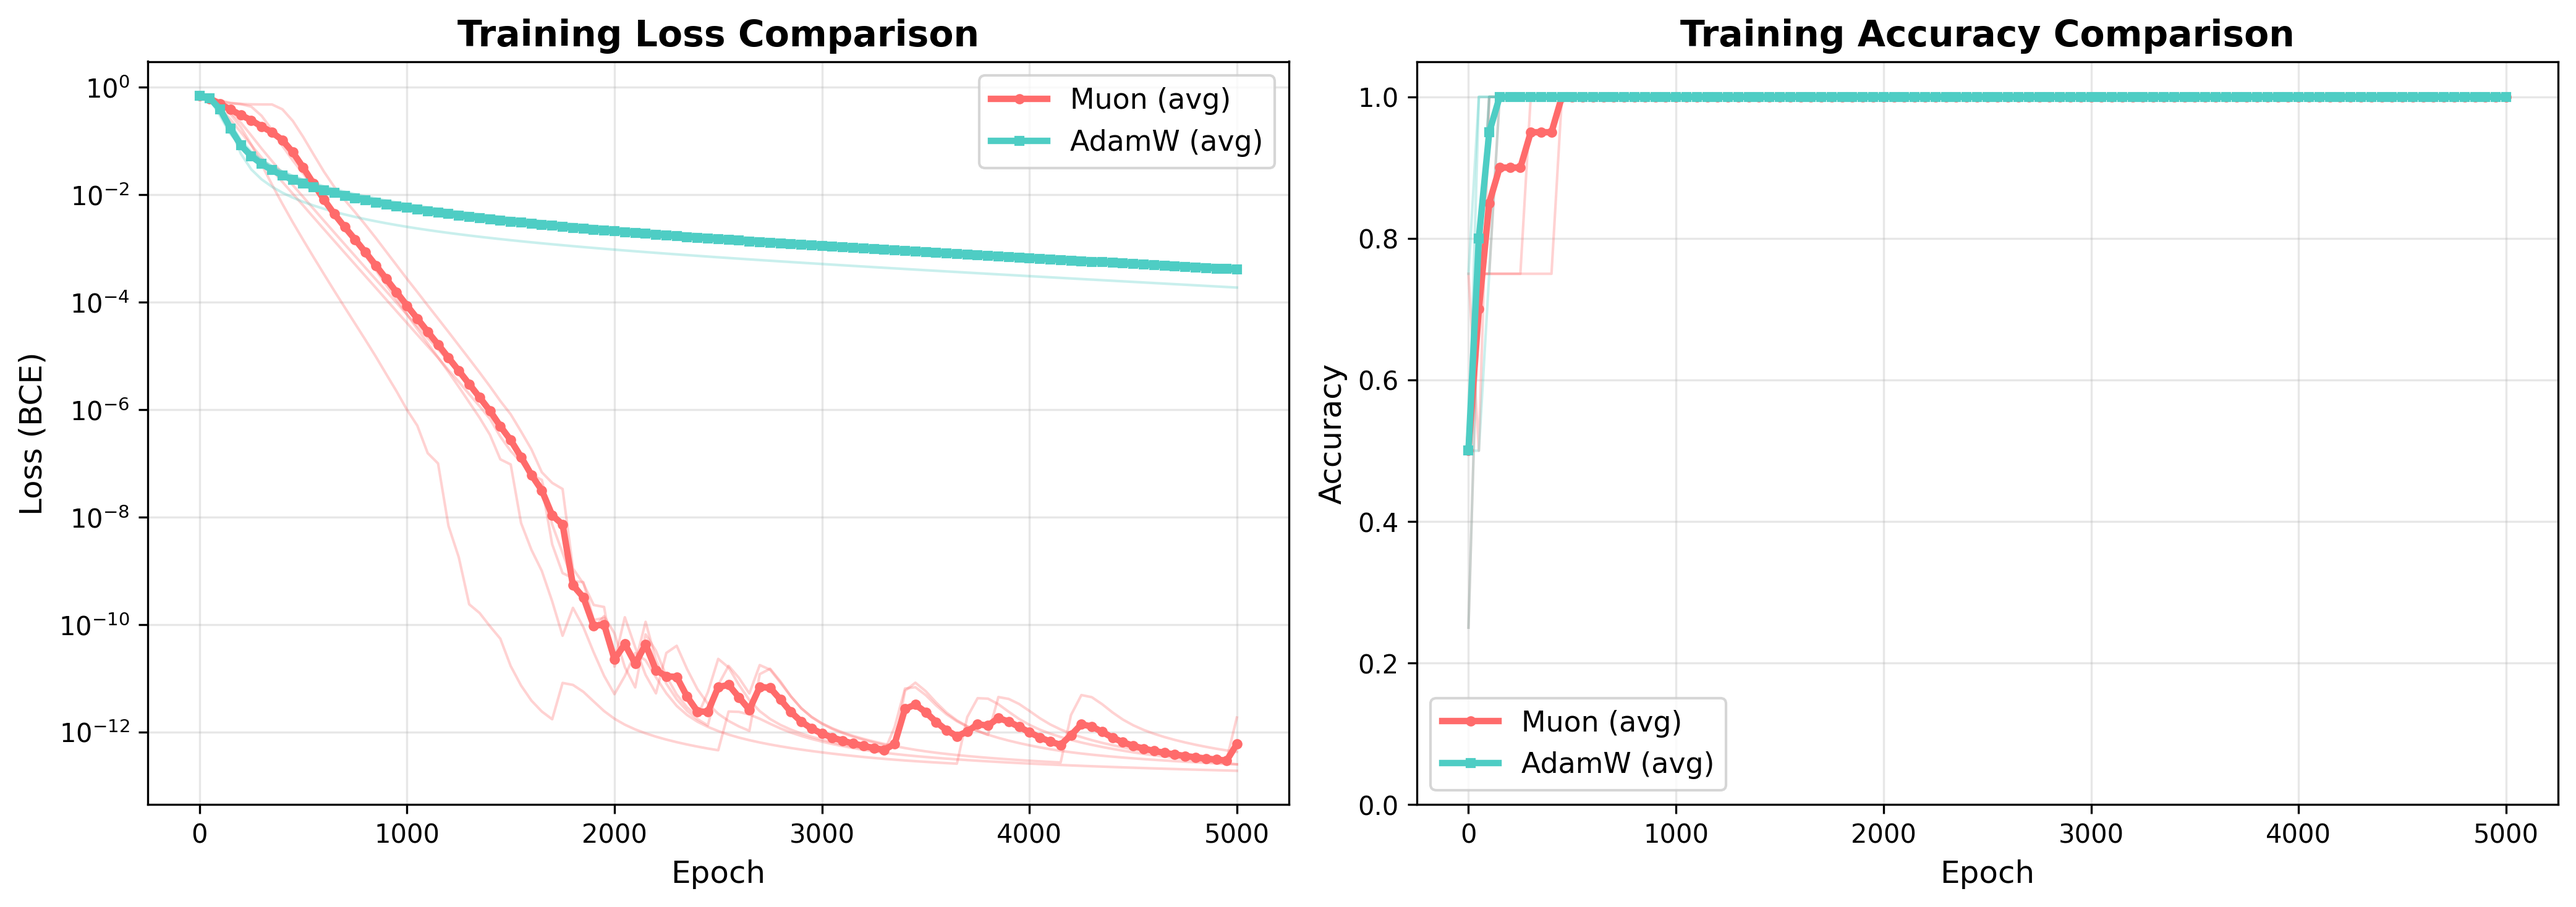
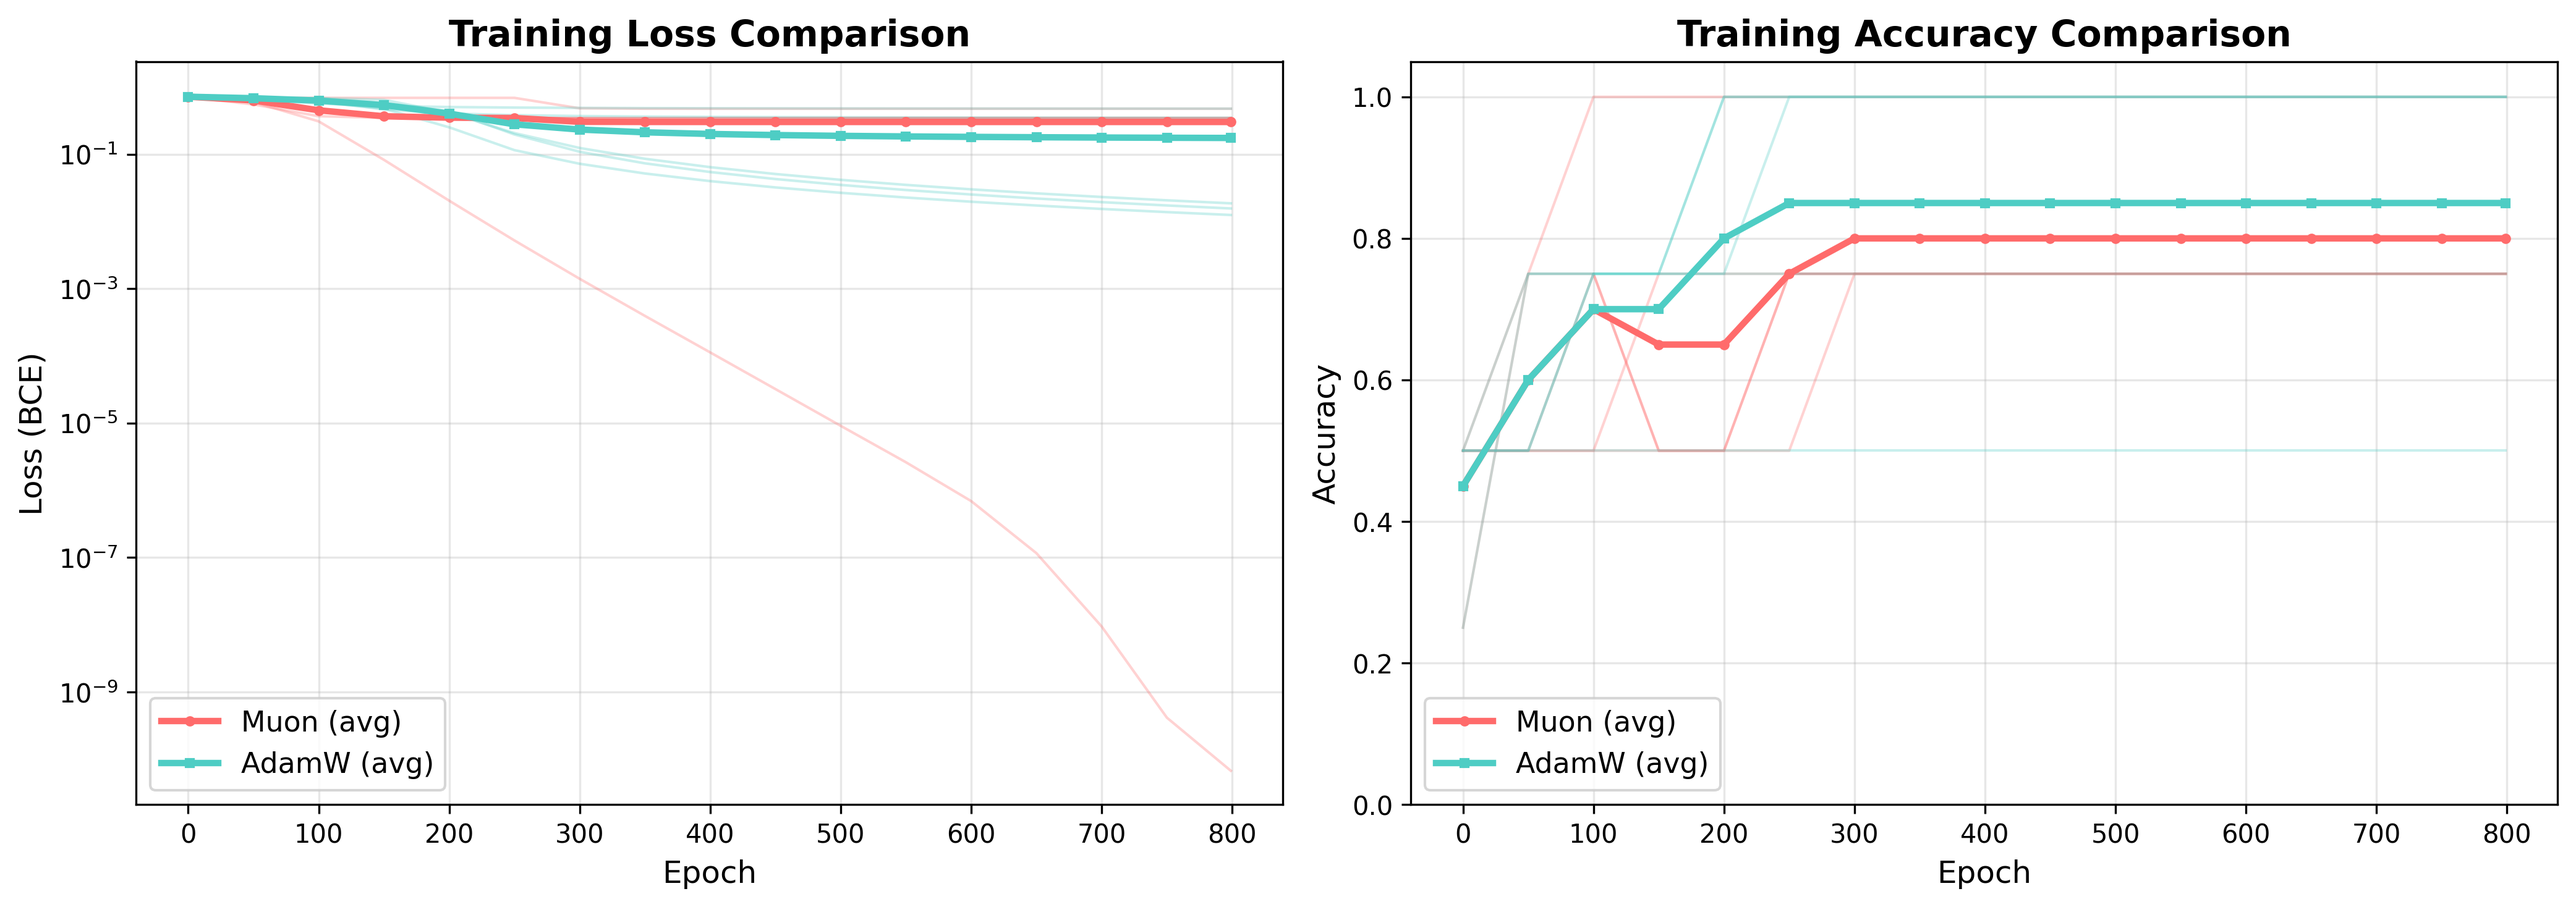
update

diff --git a/xor_experiment.py b/xor_experiment.py
@@ -20,7 +20,7 @@ XOR_TARGETS = torch.tensor([[0.], [1.], [1.], [0.]], dtype=torch.float32)
 
 class SimpleNet(nn.Module):
     """Simple feedforward network for XOR problem"""
-    def __init__(self, hidden_size=4):
+    def __init__(self, hidden_size=2):
         super().__init__()
         self.fc1 = nn.Linear(2, hidden_size)
         self.fc2 = nn.Linear(hidden_size, 1)
@@ -31,7 +31,7 @@ class SimpleNet(nn.Module):
         return x
 
 
-def train_model(optimizer_name, lr, num_epochs=5000, hidden_size=4, seed=42):
+def train_model(optimizer_name, lr, num_epochs=1000, hidden_size=2, seed=42):
     """
     Train a model with specified optimizer
     
@@ -134,7 +134,7 @@ def run_experiment(num_trials=5, num_epochs=5000):
     print()
     
     # Different learning rates to try
-    muon_lr = 0.02  # Default Muon learning rate
+    muon_lr = 0.05  # Default Muon learning rate
     adamw_lr = 0.01  # Typical AdamW learning rate
     
     results = {
@@ -230,6 +230,277 @@ def plot_results(results, save_path='xor_comparison.png'):
     plt.show()
 
 
+def plot_loss_surface(model=None, grid_size=50, extent=1.5, save_path='loss_surface.png'):
+    """
+    Plot the loss surface around a model's parameters
+    
+    Creates a 2D slice through parameter space using two random directions.
+    Based on the approach from "Visualizing the Loss Landscape of Neural Nets" (Li et al.)
+    
+    Args:
+        model: Trained model to center the visualization on (if None, uses random init)
+        grid_size: Number of points in each direction
+        extent: How far to explore in each direction (in parameter space)
+        save_path: Path to save the plot
+    """
+    print("\n" + "="*70)
+    print("PLOTTING LOSS SURFACE")
+    print("="*70)
+    
+    # Use provided model or create a new one
+    if model is None:
+        model = SimpleNet(hidden_size=2)
+    
+    # Get all parameters as a flat vector (center point)
+    center_params = []
+    for p in model.parameters():
+        center_params.append(p.data.clone().flatten())
+    center_params = torch.cat(center_params)
+    
+    # Create two random direction vectors (normalized)
+    torch.manual_seed(42)
+    direction1 = torch.randn_like(center_params)
+    direction1 = direction1 / torch.norm(direction1)
+    
+    direction2 = torch.randn_like(center_params)
+    # Make direction2 orthogonal to direction1
+    direction2 = direction2 - (direction2 @ direction1) * direction1
+    direction2 = direction2 / torch.norm(direction2)
+    
+    # Create grid
+    alphas = np.linspace(-extent, extent, grid_size)
+    betas = np.linspace(-extent, extent, grid_size)
+    
+    # Storage for losses
+    losses = np.zeros((grid_size, grid_size))
+    
+    print(f"Computing loss surface ({grid_size}x{grid_size} = {grid_size**2} points)...")
+    
+    # Compute loss at each grid point
+    def set_params(alpha, beta):
+        """Set model parameters to center + alpha*dir1 + beta*dir2"""
+        new_params = center_params + alpha * direction1 + beta * direction2
+        
+        # Unflatten and assign back to model
+        offset = 0
+        for p in model.parameters():
+            numel = p.numel()
+            p.data.copy_(new_params[offset:offset+numel].reshape(p.shape))
+            offset += numel
+    
+    # Compute losses
+    for i, alpha in enumerate(alphas):
+        for j, beta in enumerate(betas):
+            set_params(alpha, beta)
+            model.eval()
+            with torch.no_grad():
+                outputs = model(XOR_INPUTS)
+                loss = F.binary_cross_entropy(outputs, XOR_TARGETS)
+                losses[i, j] = loss.item()
+        
+        if (i + 1) % 10 == 0:
+            print(f"  Progress: {i+1}/{grid_size} rows completed")
+    
+    # Restore original parameters
+    set_params(0, 0)
+    
+    print("Creating visualization...")
+    
+    # Create the plot
+    fig, (ax1, ax2) = plt.subplots(1, 2, figsize=(16, 6))
+    
+    # Contour plot
+    X, Y = np.meshgrid(alphas, betas)
+    levels = np.logspace(np.log10(losses.min() + 1e-8), np.log10(losses.max()), 20)
+    contour = ax1.contourf(X, Y, losses.T, levels=levels, cmap='viridis', norm='log')
+    ax1.contour(X, Y, losses.T, levels=levels, colors='white', alpha=0.3, linewidths=0.5)
+    ax1.plot(0, 0, 'r*', markersize=15, label='Model parameters')
+    ax1.set_xlabel('Direction 1 (α)', fontsize=12)
+    ax1.set_ylabel('Direction 2 (β)', fontsize=12)
+    ax1.set_title('Loss Surface (Contour)', fontsize=14, fontweight='bold')
+    ax1.legend(fontsize=11)
+    cbar1 = plt.colorbar(contour, ax=ax1)
+    cbar1.set_label('Loss (BCE)', fontsize=11)
+    
+    # 3D surface plot
+    ax2 = fig.add_subplot(122, projection='3d')
+    surf = ax2.plot_surface(X, Y, losses.T, cmap='viridis', 
+                            norm='log', alpha=0.9, antialiased=True)
+    ax2.plot([0], [0], [losses[grid_size//2, grid_size//2]], 'r*', 
+             markersize=15, label='Model parameters')
+    ax2.set_xlabel('Direction 1 (α)', fontsize=11)
+    ax2.set_ylabel('Direction 2 (β)', fontsize=11)
+    ax2.set_zlabel('Loss (BCE)', fontsize=11)
+    ax2.set_title('Loss Surface (3D)', fontsize=14, fontweight='bold')
+    ax2.view_init(elev=25, azim=45)
+    cbar2 = plt.colorbar(surf, ax=ax2, shrink=0.6)
+    cbar2.set_label('Loss (BCE)', fontsize=11)
+    
+    plt.tight_layout()
+    plt.savefig(save_path, dpi=300, bbox_inches='tight')
+    print(f"\nLoss surface plot saved to: {save_path}")
+    plt.show()
+    
+    # Print statistics
+    print(f"\nLoss Surface Statistics:")
+    print(f"  Minimum loss: {losses.min():.6f}")
+    print(f"  Maximum loss: {losses.max():.6f}")
+    print(f"  Loss at center: {losses[grid_size//2, grid_size//2]:.6f}")
+    print(f"  Loss range: {losses.max() - losses.min():.6f}")
+
+
+def plot_complete_loss_surface(model=None, grid_size=100, extent=3.0, save_path='complete_loss_surface.png'):
+    """
+    Plot the COMPLETE loss surface by varying two specific weights
+    
+    Since we only have 2 hidden units, we can plot the actual loss surface
+    by varying two specific weights (the first two weights of fc1) while
+    keeping all other parameters fixed. This gives us a true loss surface
+    rather than a random 2D projection.
+    
+    Args:
+        model: Trained model to center the visualization on (if None, uses random init)
+        grid_size: Number of points in each direction
+        extent: How far to explore in each direction (absolute weight values)
+        save_path: Path to save the plot
+    """
+    print("\n" + "="*70)
+    print("PLOTTING COMPLETE LOSS SURFACE (2 specific weights)")
+    print("="*70)
+    
+    # Use provided model or create a new one
+    if model is None:
+        model = SimpleNet(hidden_size=2)
+    
+    # Store original parameters
+    original_params = {}
+    for name, param in model.named_parameters():
+        original_params[name] = param.data.clone()
+    
+    # We'll vary fc1.weight[0, 0] and fc1.weight[0, 1]
+    # (the two weights connecting to the first hidden unit)
+    center_w00 = original_params['fc1.weight'][0, 0].item()
+    center_w01 = original_params['fc1.weight'][0, 1].item()
+    
+    print(f"Center point: fc1.weight[0,0]={center_w00:.4f}, fc1.weight[0,1]={center_w01:.4f}")
+    print(f"Exploring range: [{center_w00-extent:.2f}, {center_w00+extent:.2f}] x [{center_w01-extent:.2f}, {center_w01+extent:.2f}]")
+    
+    # Create grid
+    w00_values = np.linspace(center_w00 - extent, center_w00 + extent, grid_size)
+    w01_values = np.linspace(center_w01 - extent, center_w01 + extent, grid_size)
+    
+    # Storage for losses
+    losses = np.zeros((grid_size, grid_size))
+    
+    print(f"Computing loss surface ({grid_size}x{grid_size} = {grid_size**2} points)...")
+    
+    # Compute loss at each grid point
+    for i, w00 in enumerate(w00_values):
+        for j, w01 in enumerate(w01_values):
+            # Set the two weights we're varying
+            model.fc1.weight.data[0, 0] = w00
+            model.fc1.weight.data[0, 1] = w01
+            
+            # Compute loss
+            model.eval()
+            with torch.no_grad():
+                outputs = model(XOR_INPUTS)
+                loss = F.binary_cross_entropy(outputs, XOR_TARGETS)
+                losses[i, j] = loss.item()
+        
+        if (i + 1) % 20 == 0:
+            print(f"  Progress: {i+1}/{grid_size} rows completed")
+    
+    # Restore original parameters
+    for name, param in model.named_parameters():
+        param.data.copy_(original_params[name])
+    
+    print("Creating visualization...")
+    
+    # Create the plot
+    fig = plt.figure(figsize=(18, 6))
+    
+    # Contour plot
+    ax1 = plt.subplot(131)
+    X, Y = np.meshgrid(w00_values, w01_values)
+    
+    # Use logarithmic levels if loss range is large
+    loss_min, loss_max = losses.min(), losses.max()
+    if loss_max / loss_min > 100:
+        levels = np.logspace(np.log10(loss_min + 1e-8), np.log10(loss_max), 30)
+        contour = ax1.contourf(X, Y, losses.T, levels=levels, cmap='viridis', norm='log')
+    else:
+        levels = 30
+        contour = ax1.contourf(X, Y, losses.T, levels=levels, cmap='viridis')
+    
+    ax1.contour(X, Y, losses.T, levels=15, colors='white', alpha=0.3, linewidths=0.5)
+    ax1.plot(center_w00, center_w01, 'r*', markersize=20, label='Model parameters', markeredgecolor='white', markeredgewidth=1.5)
+    ax1.set_xlabel('fc1.weight[0, 0]', fontsize=12)
+    ax1.set_ylabel('fc1.weight[0, 1]', fontsize=12)
+    ax1.set_title('Complete Loss Surface (Contour)', fontsize=14, fontweight='bold')
+    ax1.legend(fontsize=11)
+    ax1.grid(True, alpha=0.3)
+    cbar1 = plt.colorbar(contour, ax=ax1)
+    cbar1.set_label('Loss (BCE)', fontsize=11)
+    
+    # 3D surface plot
+    ax2 = fig.add_subplot(132, projection='3d')
+    if loss_max / loss_min > 100:
+        surf = ax2.plot_surface(X, Y, losses.T, cmap='viridis', 
+                                norm='log', alpha=0.9, antialiased=True, 
+                                edgecolor='none', rcount=50, ccount=50)
+    else:
+        surf = ax2.plot_surface(X, Y, losses.T, cmap='viridis', 
+                                alpha=0.9, antialiased=True,
+                                edgecolor='none', rcount=50, ccount=50)
+    
+    # Find the center point loss
+    center_i = grid_size // 2
+    center_j = grid_size // 2
+    ax2.plot([center_w00], [center_w01], [losses[center_i, center_j]], 
+             'r*', markersize=20, label='Model parameters',
+             markeredgecolor='white', markeredgewidth=1.5)
+    ax2.set_xlabel('fc1.weight[0, 0]', fontsize=11)
+    ax2.set_ylabel('fc1.weight[0, 1]', fontsize=11)
+    ax2.set_zlabel('Loss (BCE)', fontsize=11)
+    ax2.set_title('Complete Loss Surface (3D)', fontsize=14, fontweight='bold')
+    ax2.view_init(elev=25, azim=45)
+    cbar2 = plt.colorbar(surf, ax=ax2, shrink=0.6, pad=0.1)
+    cbar2.set_label('Loss (BCE)', fontsize=11)
+    
+    # Heatmap with cross-sections
+    ax3 = plt.subplot(133)
+    im = ax3.imshow(losses.T, extent=[w00_values[0], w00_values[-1], w01_values[0], w01_values[-1]],
+                    origin='lower', cmap='viridis', aspect='auto',
+                    norm='log' if loss_max / loss_min > 100 else None)
+    ax3.plot(center_w00, center_w01, 'r*', markersize=20, label='Model parameters',
+             markeredgecolor='white', markeredgewidth=1.5)
+    
+    # Add cross-sections through the center point
+    ax3.axvline(center_w00, color='red', linestyle='--', alpha=0.5, linewidth=1)
+    ax3.axhline(center_w01, color='red', linestyle='--', alpha=0.5, linewidth=1)
+    
+    ax3.set_xlabel('fc1.weight[0, 0]', fontsize=12)
+    ax3.set_ylabel('fc1.weight[0, 1]', fontsize=12)
+    ax3.set_title('Complete Loss Surface (Heatmap)', fontsize=14, fontweight='bold')
+    ax3.legend(fontsize=11)
+    cbar3 = plt.colorbar(im, ax=ax3)
+    cbar3.set_label('Loss (BCE)', fontsize=11)
+    
+    plt.tight_layout()
+    plt.savefig(save_path, dpi=300, bbox_inches='tight')
+    print(f"\nComplete loss surface plot saved to: {save_path}")
+    plt.show()
+    
+    # Print statistics
+    print(f"\nLoss Surface Statistics:")
+    print(f"  Minimum loss: {loss_min:.6f} at w00={w00_values[np.unravel_index(losses.argmin(), losses.shape)[0]]:.4f}, w01={w01_values[np.unravel_index(losses.argmin(), losses.shape)[1]]:.4f}")
+    print(f"  Maximum loss: {loss_max:.6f}")
+    print(f"  Loss at center: {losses[center_i, center_j]:.6f}")
+    print(f"  Loss range: {loss_max - loss_min:.6f}")
+    print(f"  Loss ratio (max/min): {loss_max / loss_min:.2f}")
+
+
 def print_summary(results):
     """Print summary statistics of the experiment"""
     print("\n" + "="*70)
@@ -270,10 +541,51 @@ def print_summary(results):
 
 if __name__ == "__main__":
     # Run the experiment
-    results = run_experiment(num_trials=5, num_epochs=5000)
+    results = run_experiment(num_trials=5, num_epochs=800)
     
     # Plot results
     plot_results(results)
     
     # Print summary
     print_summary(results)
+    
+    # Plot COMPLETE loss surface (actual weight space) for Muon model
+    print("\n\nVisualizing COMPLETE loss surface for trained Muon model...")
+    print("(varying fc1.weight[0,0] and fc1.weight[0,1] while keeping all other params fixed)")
+    plot_complete_loss_surface(
+        model=results['muon'][0]['model'], 
+        grid_size=100, 
+        extent=3.0,
+        save_path='complete_loss_surface_muon.png'
+    )
+    
+    # Plot COMPLETE loss surface (actual weight space) for AdamW model
+    print("\n\nVisualizing COMPLETE loss surface for trained AdamW model...")
+    print("(varying fc1.weight[0,0] and fc1.weight[0,1] while keeping all other params fixed)")
+    plot_complete_loss_surface(
+        model=results['adamw'][0]['model'], 
+        grid_size=100, 
+        extent=3.0,
+        save_path='complete_loss_surface_adamw.png'
+    )
+    
+    # Also plot random projection loss surfaces for comparison
+    print("\n\n" + "="*70)
+    print("BONUS: Random projection loss surfaces (for comparison)")
+    print("="*70)
+    
+    print("\nVisualizing random projection loss surface for Muon model...")
+    plot_loss_surface(
+        model=results['muon'][0]['model'], 
+        grid_size=50, 
+        extent=1.5,
+        save_path='random_loss_surface_muon.png'
+    )
+    
+    print("\nVisualizing random projection loss surface for AdamW model...")
+    plot_loss_surface(
+        model=results['adamw'][0]['model'], 
+        grid_size=50, 
+        extent=1.5,
+        save_path='random_loss_surface_adamw.png'
+    )
